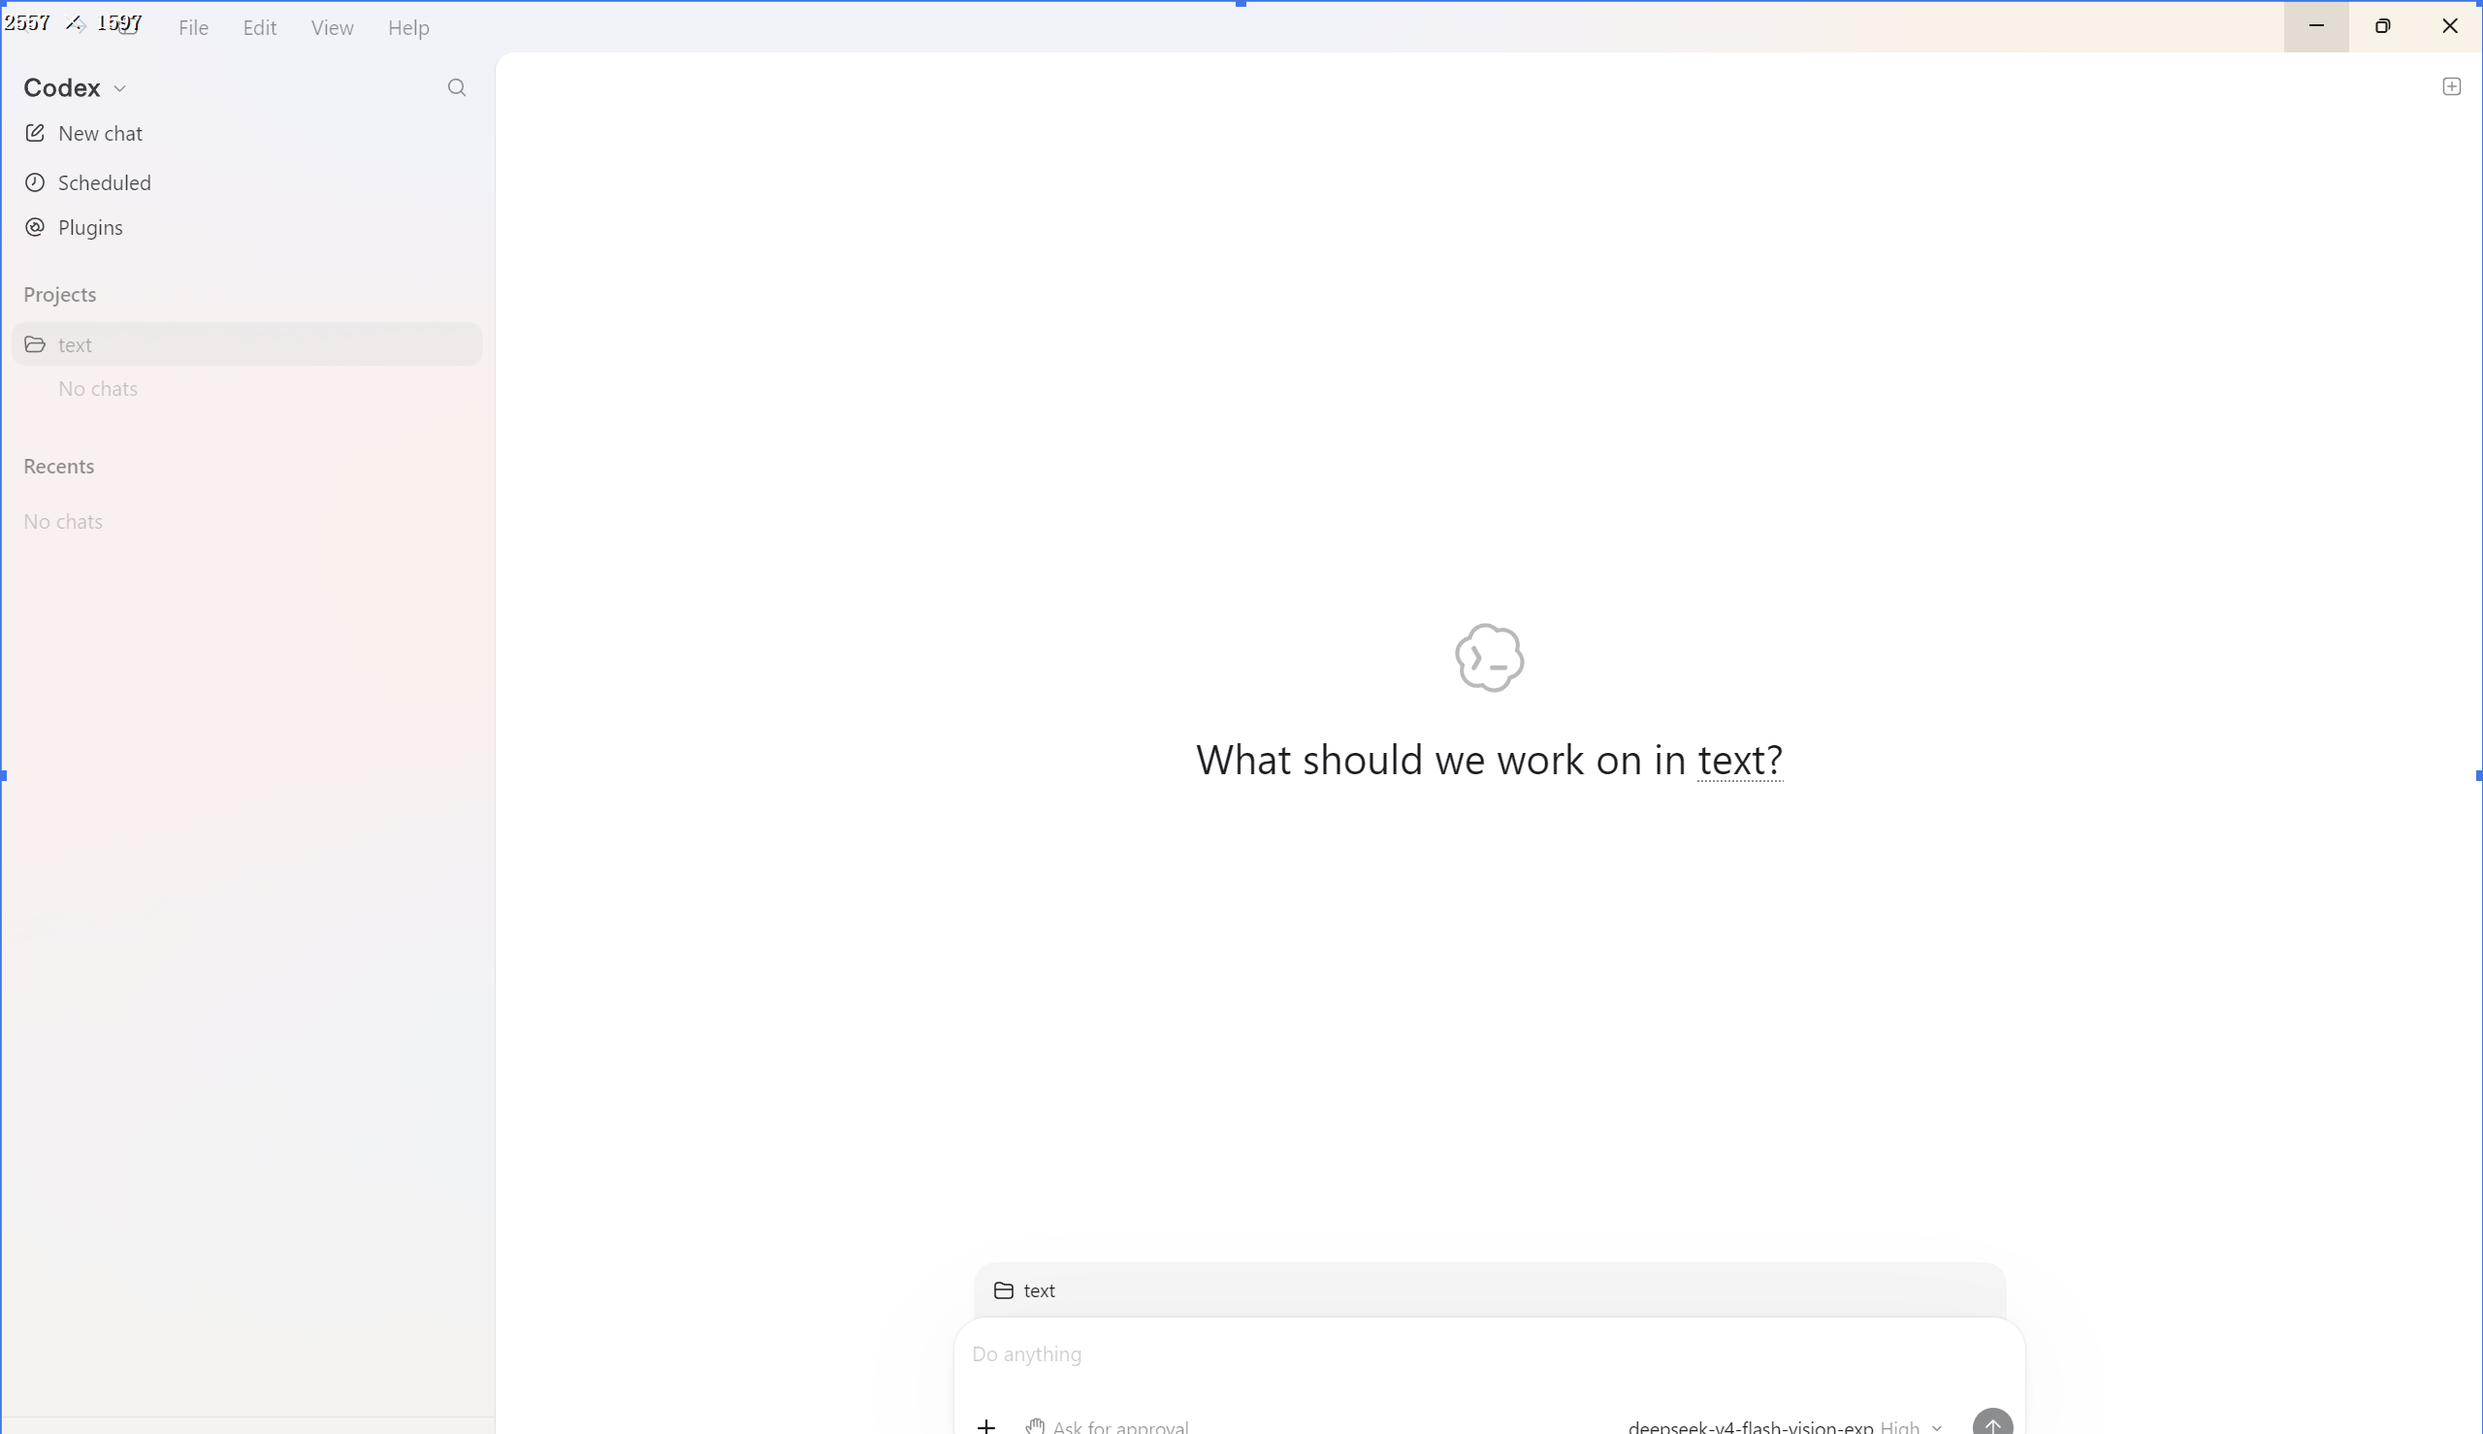
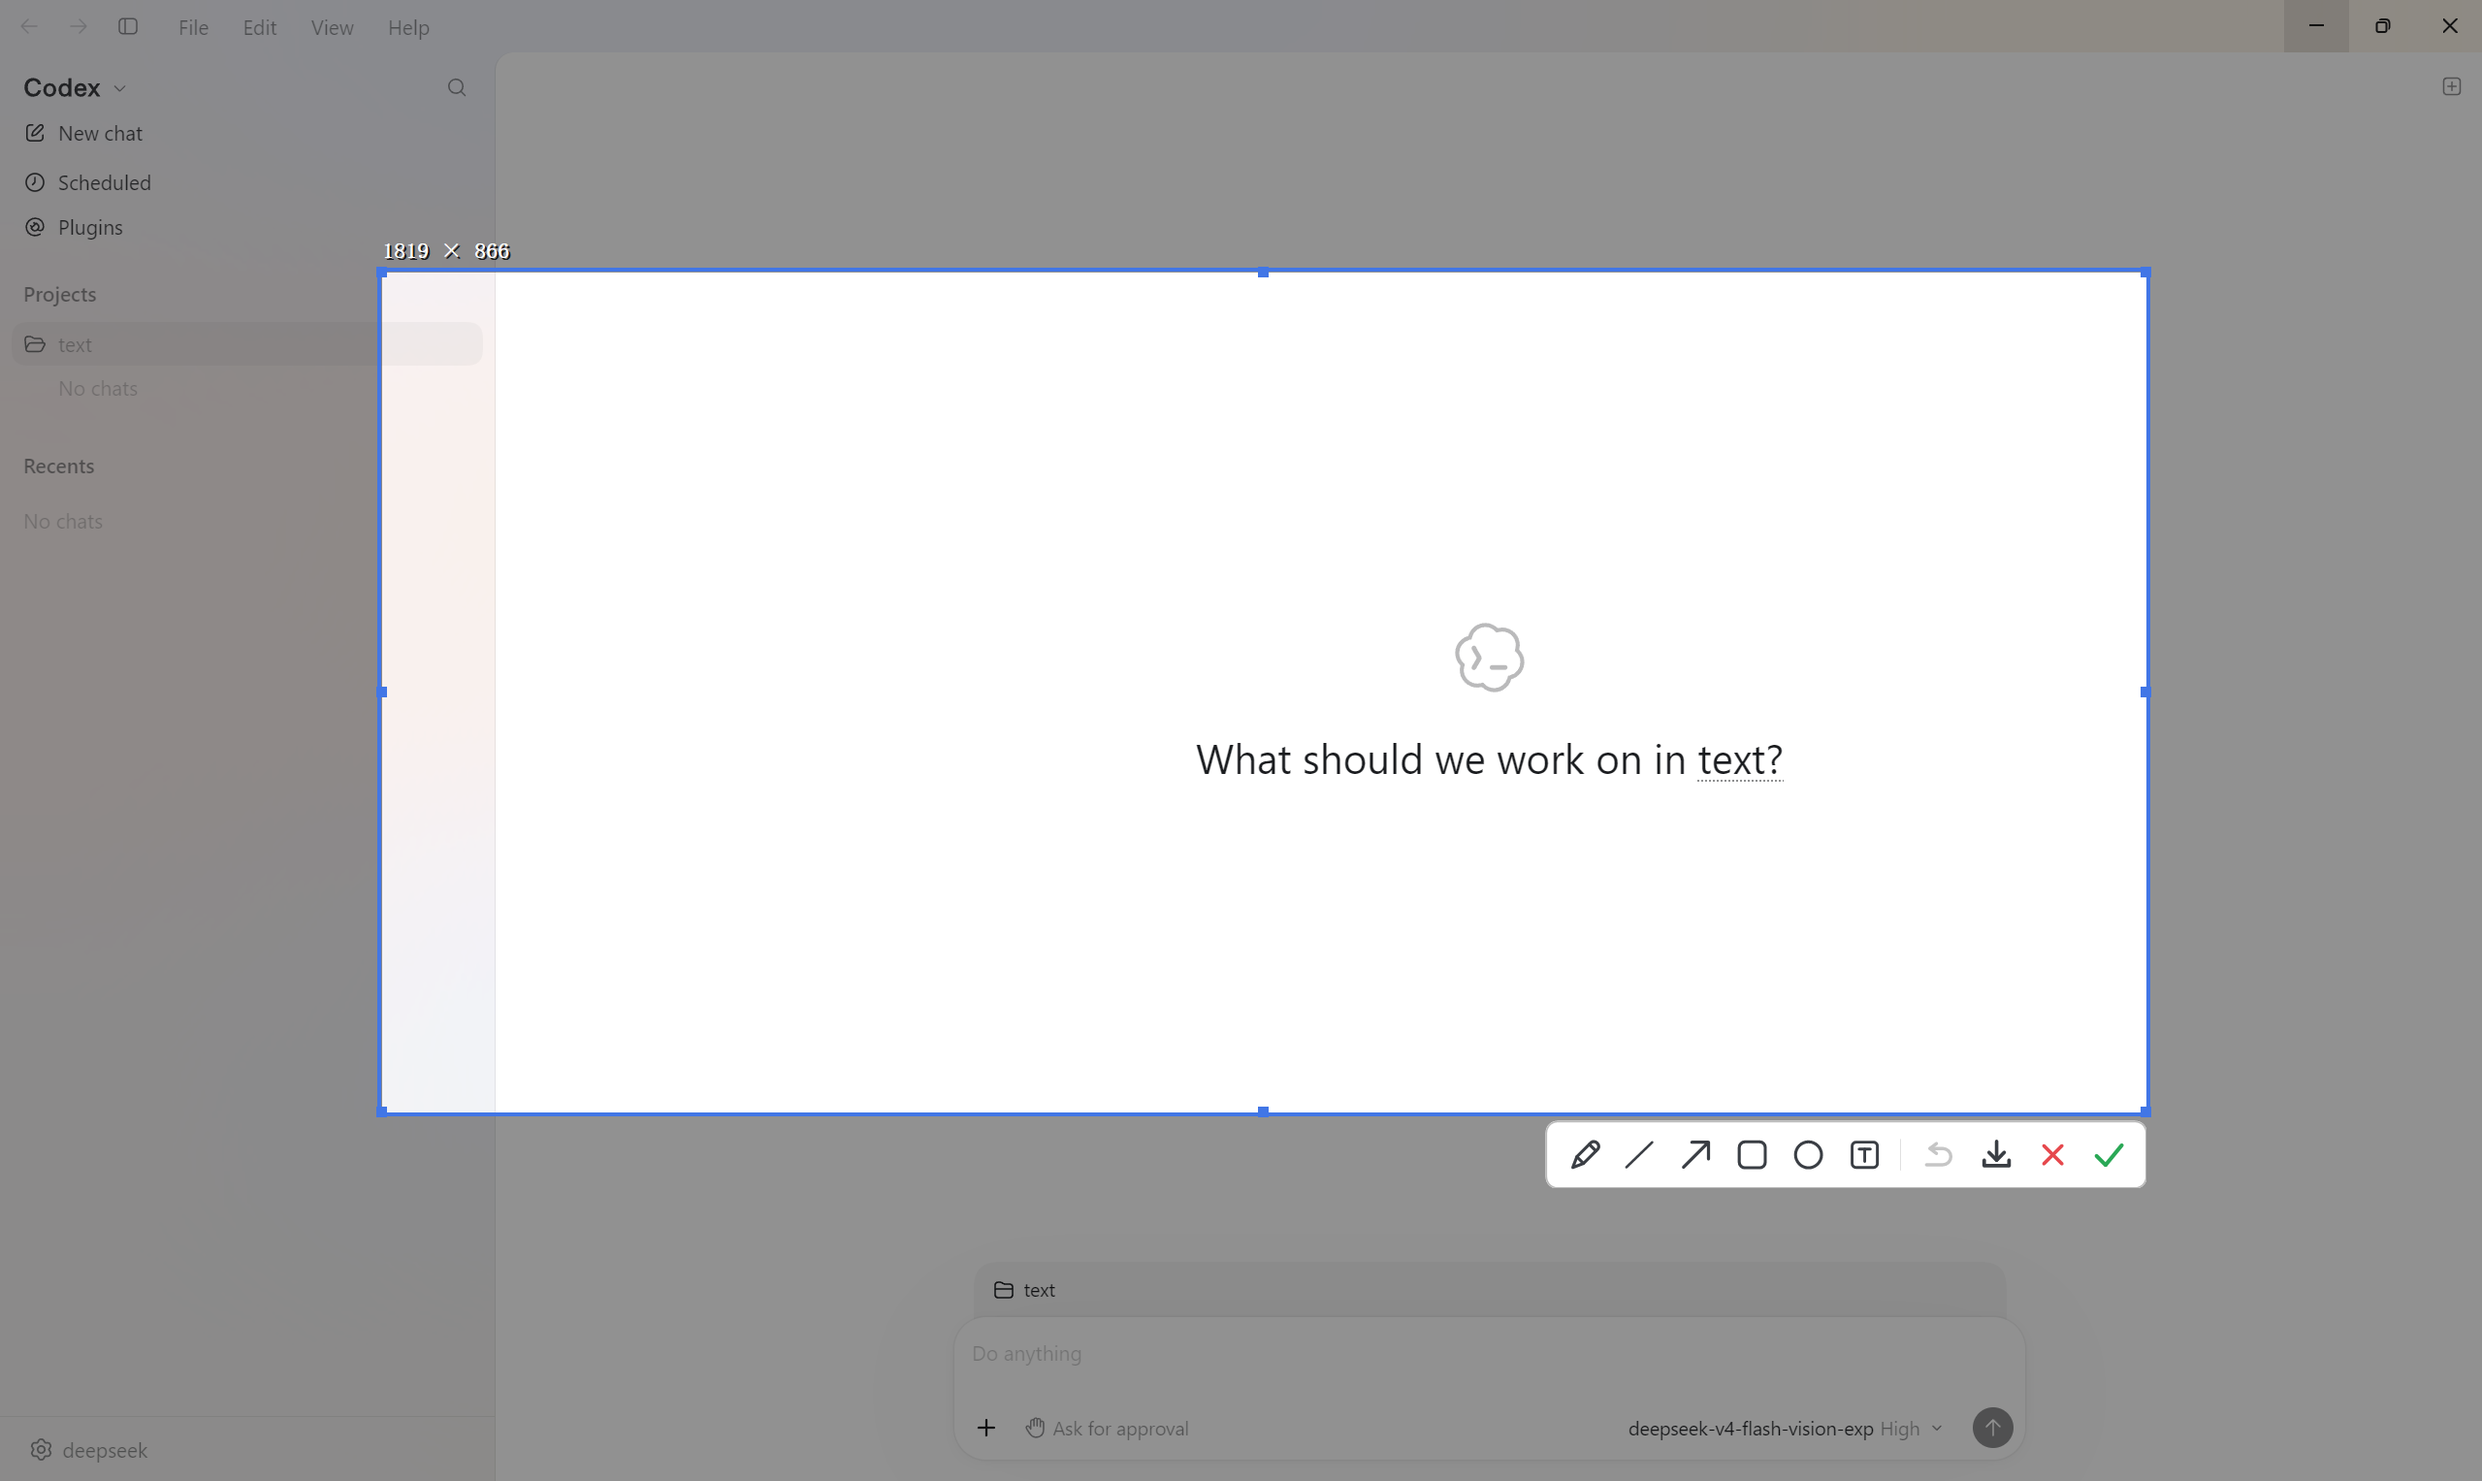
docs: screenshots from the real tool (overview, toolbar, magnifier)

diff --git a/README.md b/README.md
@@ -20,6 +20,8 @@
 | Follows the DSH UI language (zh / en) | 跟随 DSH 界面语言（中 / 英） |
 | ~6 MB idle, ~0.5 % CPU, exits when idle | 空闲约 6 MB、0.5 % CPU，空闲自动退出 |
 
+![工具栏 / Toolbar](docs/screenshots/toolbar.png)
+
 ![放大器取色 / Magnifier](docs/screenshots/magnifier.png)
 
 ## 安装 / Install
